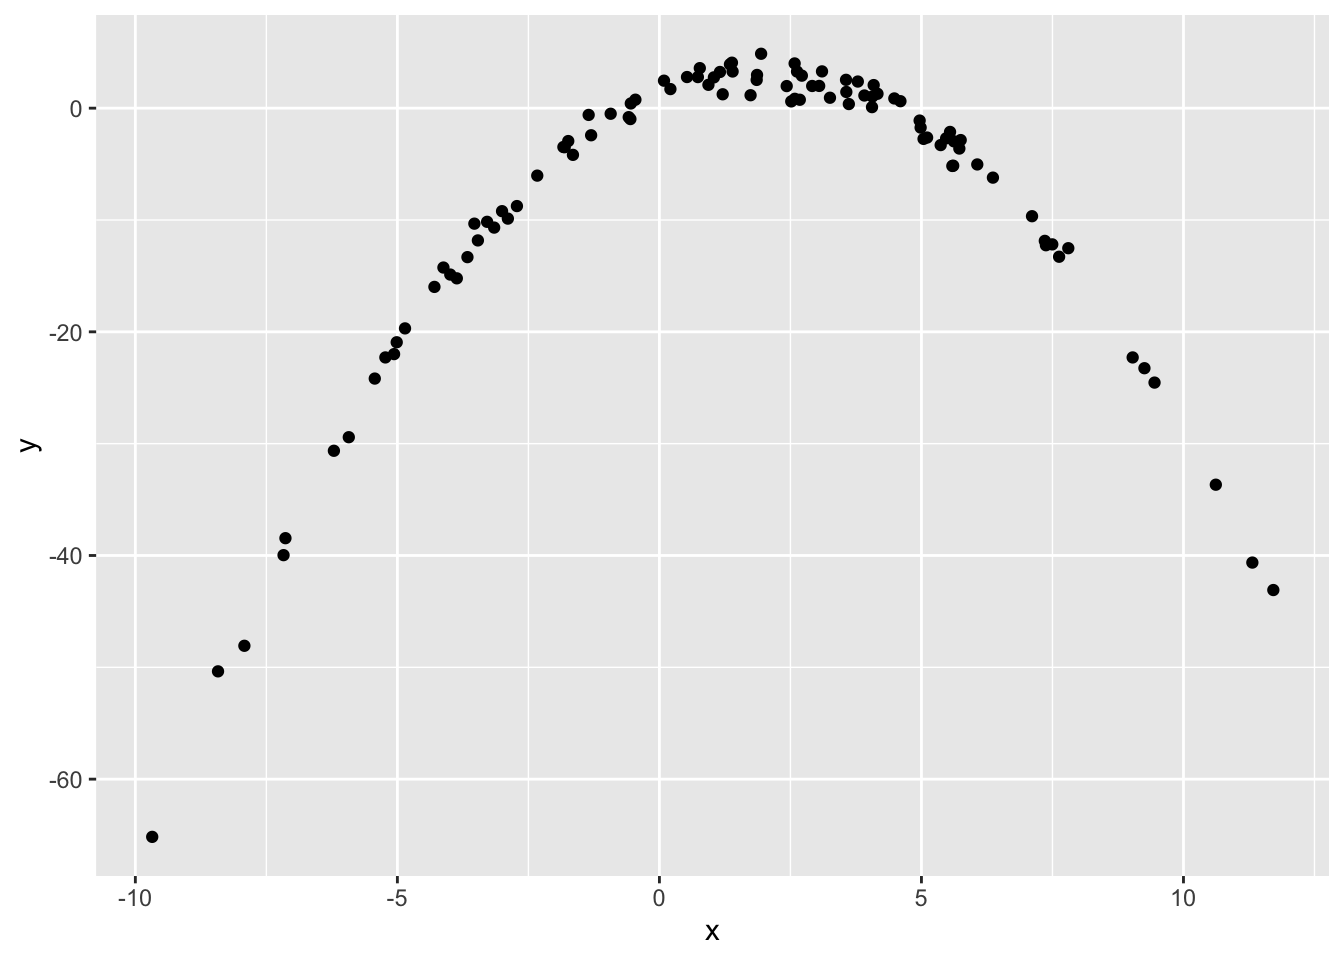
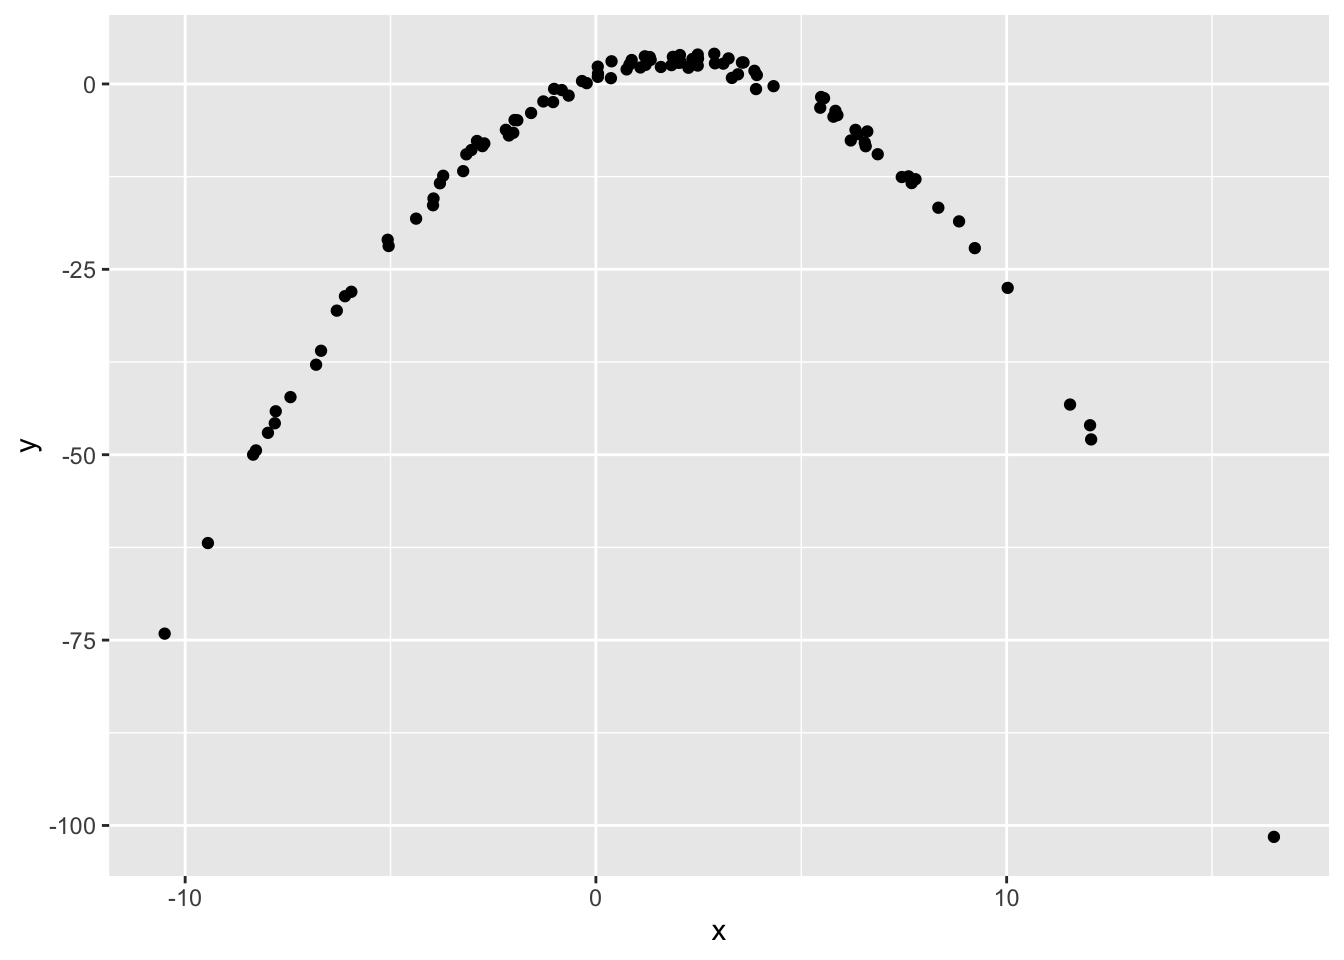
Attempt 4; Making edits

diff --git a/about.html b/about.html
@@ -327,9 +327,6 @@ div.tocify {
   <a href="about.html">About</a>
 </li>
 <li>
-  <a href="dashboard.html">Dashboard</a>
-</li>
-<li>
   <a href="mailto:&lt;[email redacted]&gt;">
     <span class="fa fa-envelope fa-lg"></span>
      
@@ -363,7 +360,7 @@ div.tocify {
 <div id="research-experience" class="section level1">
 <h1>Research Experience</h1>
 <p>Research Fellow, Biostatistics <br> Memorial Sloan Kettering Cancer
-Center QSURE Program <br> Dr. Lillian Boe <br> June 2023 – August 2023
+Center, QSURE Program <br> Dr. Lillian Boe <br> June 2023 – August 2023
 <br></p>
 <p>Undergraduate Researcher, Biostatistics <br> University of
 California, Berkeley <br> Professor Justin Remais <br> January 2022 –

diff --git a/plots.html b/plots.html
@@ -327,9 +327,6 @@ div.tocify {
   <a href="about.html">About</a>
 </li>
 <li>
-  <a href="dashboard.html">Dashboard</a>
-</li>
-<li>
   <a href="mailto:&lt;[email redacted]&gt;">
     <span class="fa fa-envelope fa-lg"></span>
      